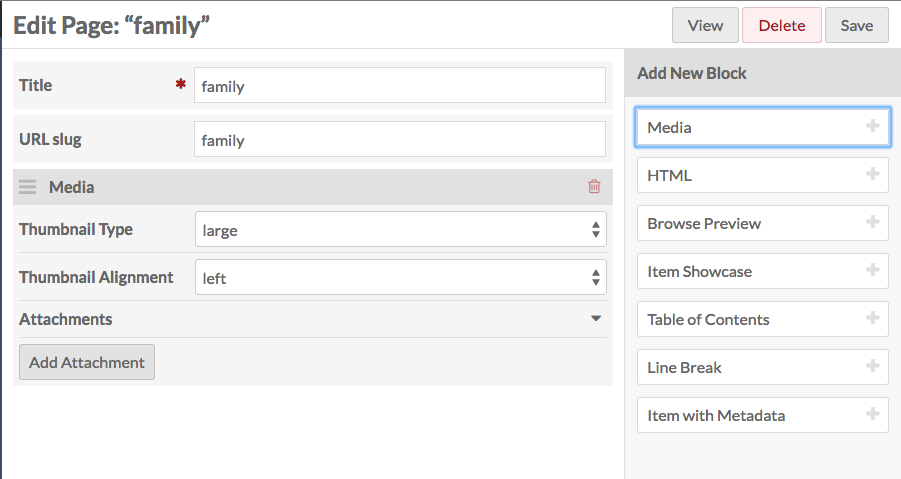
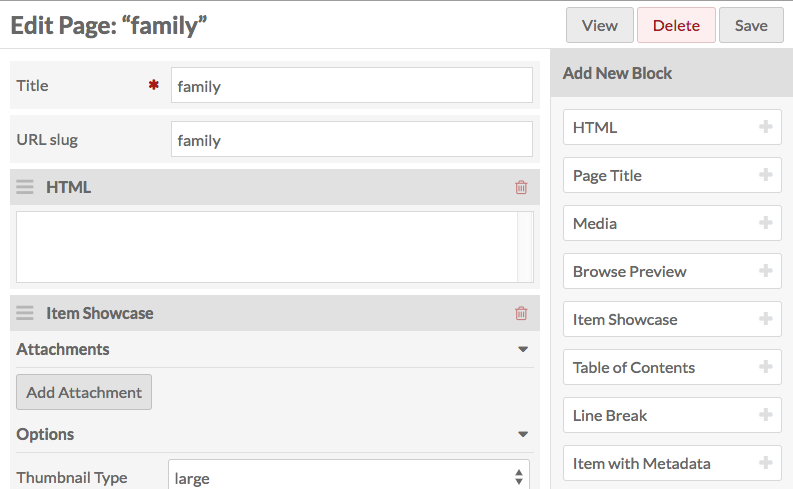
page block order
corrected

diff --git a/sites/site_pages.md b/sites/site_pages.md
@@ -48,6 +48,12 @@ Change the order of blocks by clicking on the three horizontal lines on the uppe
 
 Some modules may create additional blocks for your site pages. For information on working with these blocks, please see the documentation for that [module](../modules/modules.md)
 ## Page Blocks
+### HTML: 
+Creates an HTML box in which you can add formatted text and links.
+
+![Page block for HTML content](../sites/sitesfiles/sitepg_html.png)
+### Page Title
+Displays the title of the current page.
 ### Media
 Creates a block with one or more pieces of media associated with items in the item pool. 
 
@@ -112,10 +118,7 @@ This block displays an item along with all associated metadata (entered when cre
 
 ![Item with metadata block with nothing attached](../sites/sitesfiles/sitepg_iwm.png)
 
-### HTML: 
-Creates an HTML box in which you can add formatted text and links.
-
-![Page block for HTML content](../sites/sitesfiles/sitepg_html.png)
+For module-specific blocks (like [Collecting](../modules/collecting.md) or [Map](../modules/mapping.md)) see the documentation for that module.
 
 ## Deleting Pages
 To delete a page, go the to *Pages* tab of the site of which the page is a part. Click the delete (trash can) button at the right end of the row for that page. 
